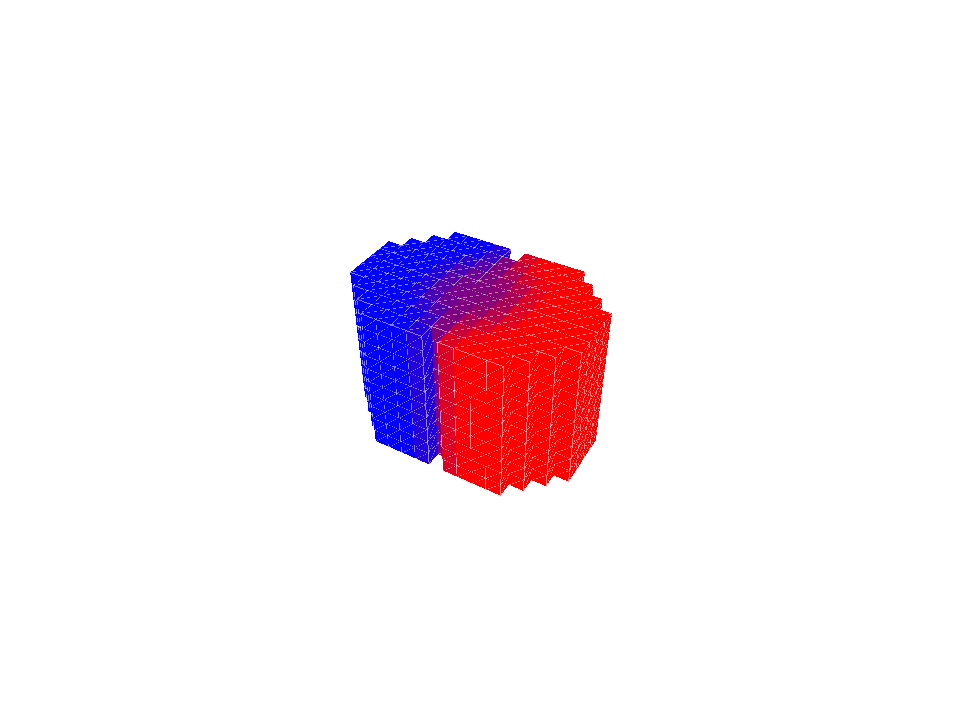
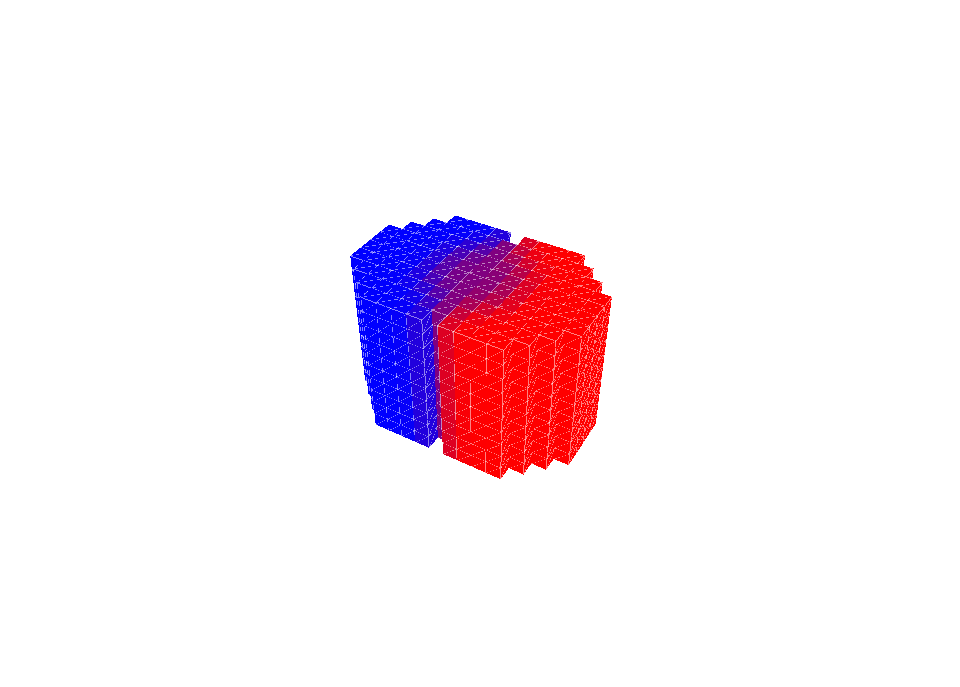
Updates to Plot and Mesh APIs
- Updated Plot and Mesh APIs
 - Updated examples to reflect API changes

Changed region(s): [[0.3438, 0.3057, 0.6562, 0.7031]]

diff --git a/python/voxelbots/plot.py b/python/voxelbots/plot.py
@@ -14,8 +14,15 @@ Initialized from mesh data
 """
 class Plot:
     def __init__(self, mesh, grids = False, drawEdges=True, edgeColor=(1, 1, 1, 0.5)):
-        mesh_data = pgo.MeshData(vertexes=mesh.verts, faces=mesh.tris, vertexColors=mesh.colors, faceColors=None)
-        mesh_item = pgo.GLMeshItem(meshdata=mesh_data, shader='balloon', drawEdges=drawEdges, edgeColor=edgeColor,
+        self.mesh = mesh
+        self.grids = grids
+        self.drawEdges = drawEdges
+        self.edgeColor = edgeColor
+        self.widget = None
+
+    def show(self):
+        mesh_data = pgo.MeshData(vertexes=self.mesh.verts, faces=self.mesh.tris, vertexColors=self.mesh.colors, faceColors=None)
+        mesh_item = pgo.GLMeshItem(meshdata=mesh_data, shader='balloon', drawEdges=self.drawEdges, edgeColor=self.edgeColor,
                                    smooth=False, computeNormals=False, glOptions='translucent')
         # mesh_item = pgo.GLMeshItem(meshdata = mesh_data, shader='shaded', drawEdges=False, smooth=True, computeNormals = True, glOptions='opaque')
 
@@ -23,7 +30,7 @@ class Plot:
         widget.setBackgroundColor('w')
         widget.addItem(mesh_item)
 
-        if grids:
+        if self.grids:
             # Add grids
             gx = pgo.GLGridItem()
             gx.setSize(x=50, y=50, z=50)
@@ -52,7 +59,7 @@ class Plot:
             widget.addItem(pltz)
 
         # Set plot options
-        widget.opts['center'] = qg.QVector3D((len(mesh.model[0, 0, :, 0])) / 2, (len(mesh.model[:, 0, 0, 0])) / 2, ((len(mesh.model[0, :, 0, 0])) / 2))
+        widget.opts['center'] = qg.QVector3D((len(self.mesh.model[0, 0, :, 0])) / 2, (len(self.mesh.model[:, 0, 0, 0])) / 2, ((len(self.mesh.model[0, :, 0, 0])) / 2))
         widget.opts['elevation'] = 40 #30
         widget.opts['azimuth'] = 30 #30
         widget.opts['distance'] = 50 #50
@@ -65,5 +72,6 @@ class Plot:
         self.widget = widget
 
     def export(self, filename):
-        self.widget.paintGL()
-        self.widget.grabFrameBuffer().save(filename)
+        if self.widget is not None:
+            self.widget.paintGL()
+            self.widget.grabFrameBuffer().save(filename)

diff --git a/python/voxelbots/mesh.py b/python/voxelbots/mesh.py
@@ -63,8 +63,15 @@ Properties:
   tris - sets of vertices associated with triangular faces
 """
 class Mesh:
+    def __init__(self, input_model, verts, verts_colors, tris):
+        self.verts = verts
+        self.colors = verts_colors
+        self.tris = tris
+        self.model = input_model
+
     # Create mesh from voxel data
-    def __init__(self, voxel_model):
+    @classmethod
+    def fromVoxelModel(cls, voxel_model):
         # Get voxel array
         input_model = np.copy(voxel_model.model)
 
@@ -197,10 +204,7 @@ class Mesh:
         verts_colors = np.array(verts_colors)
         tris = np.array(tris)
 
-        self.verts = verts
-        self.colors = verts_colors
-        self.tris = tris
-        self.model = input_model
+        return cls(input_model, verts, verts_colors, tris)
 
     # Export model from mesh data
     def export(self, filename):

diff --git a/python/voxelbots_examples/fish_tail/ex3_joint.py b/python/voxelbots_examples/fish_tail/ex3_joint.py
@@ -65,7 +65,7 @@ if __name__=='__main__':
     modelResult = modelResult - insertedComponents
 
     # Create mesh data
-    mesh1 = Mesh(modelResult)
+    mesh1 = Mesh.fromVoxelModel(modelResult)
 
     # Export .stl file
     #mesh1.export('joint-2.stl')
@@ -77,6 +77,7 @@ if __name__=='__main__':
 
     # Create plot
     plot1 = Plot(mesh1)
+    plot1.show()
     app1.processEvents()
     plot1.export('fig1.png')
 

diff --git a/python/voxelbots_examples/blurred_material/3dp_and_blurring.py b/python/voxelbots_examples/blurred_material/3dp_and_blurring.py
@@ -54,12 +54,13 @@ if __name__=='__main__':
     # Sort by material percentages
 
     # Create mesh data for each material
-    mesh1 = Mesh(modelResult)
+    mesh1 = Mesh.fromVoxelModel(modelResult)
 
     # Export .stl file for each material
 
     # Create plot
     plot1 = Plot(mesh1)
+    plot1.show()
     app1.processEvents()
     plot1.export('fig1.png')
 

diff --git a/python/voxelbots_examples/fish_tail/ex3_tail.py b/python/voxelbots_examples/fish_tail/ex3_tail.py
@@ -52,12 +52,13 @@ if __name__=='__main__':
     # Sort by material percentages
 
     # Create mesh data for each material
-    mesh1 = Mesh(modelResult)
+    mesh1 = Mesh.fromVoxelModel(modelResult)
 
     # Export .stl file for each material
 
     # Create plot
     plot1 = Plot(mesh1)
+    plot1.show()
     app1.processEvents()
     plot1.export('fig1.png')
 

diff --git a/python/voxelbots_examples/voxelmodel_function_testing/function-testing.py b/python/voxelbots_examples/voxelmodel_function_testing/function-testing.py
@@ -57,11 +57,12 @@ if __name__=='__main__':
 
     # Create mesh data
     #mesh1 = Mesh(model1)
-    mesh2 = Mesh(modelResult)
+    mesh2 = Mesh.fromVoxelModel(modelResult)
 
     # Create plot
     #plot1 = Plot(mesh1)
     plot2 = Plot(mesh2)
+    plot2.show()
     app1.processEvents()
 
     plot2.export('voxel-tools-bool-fig1.png')
